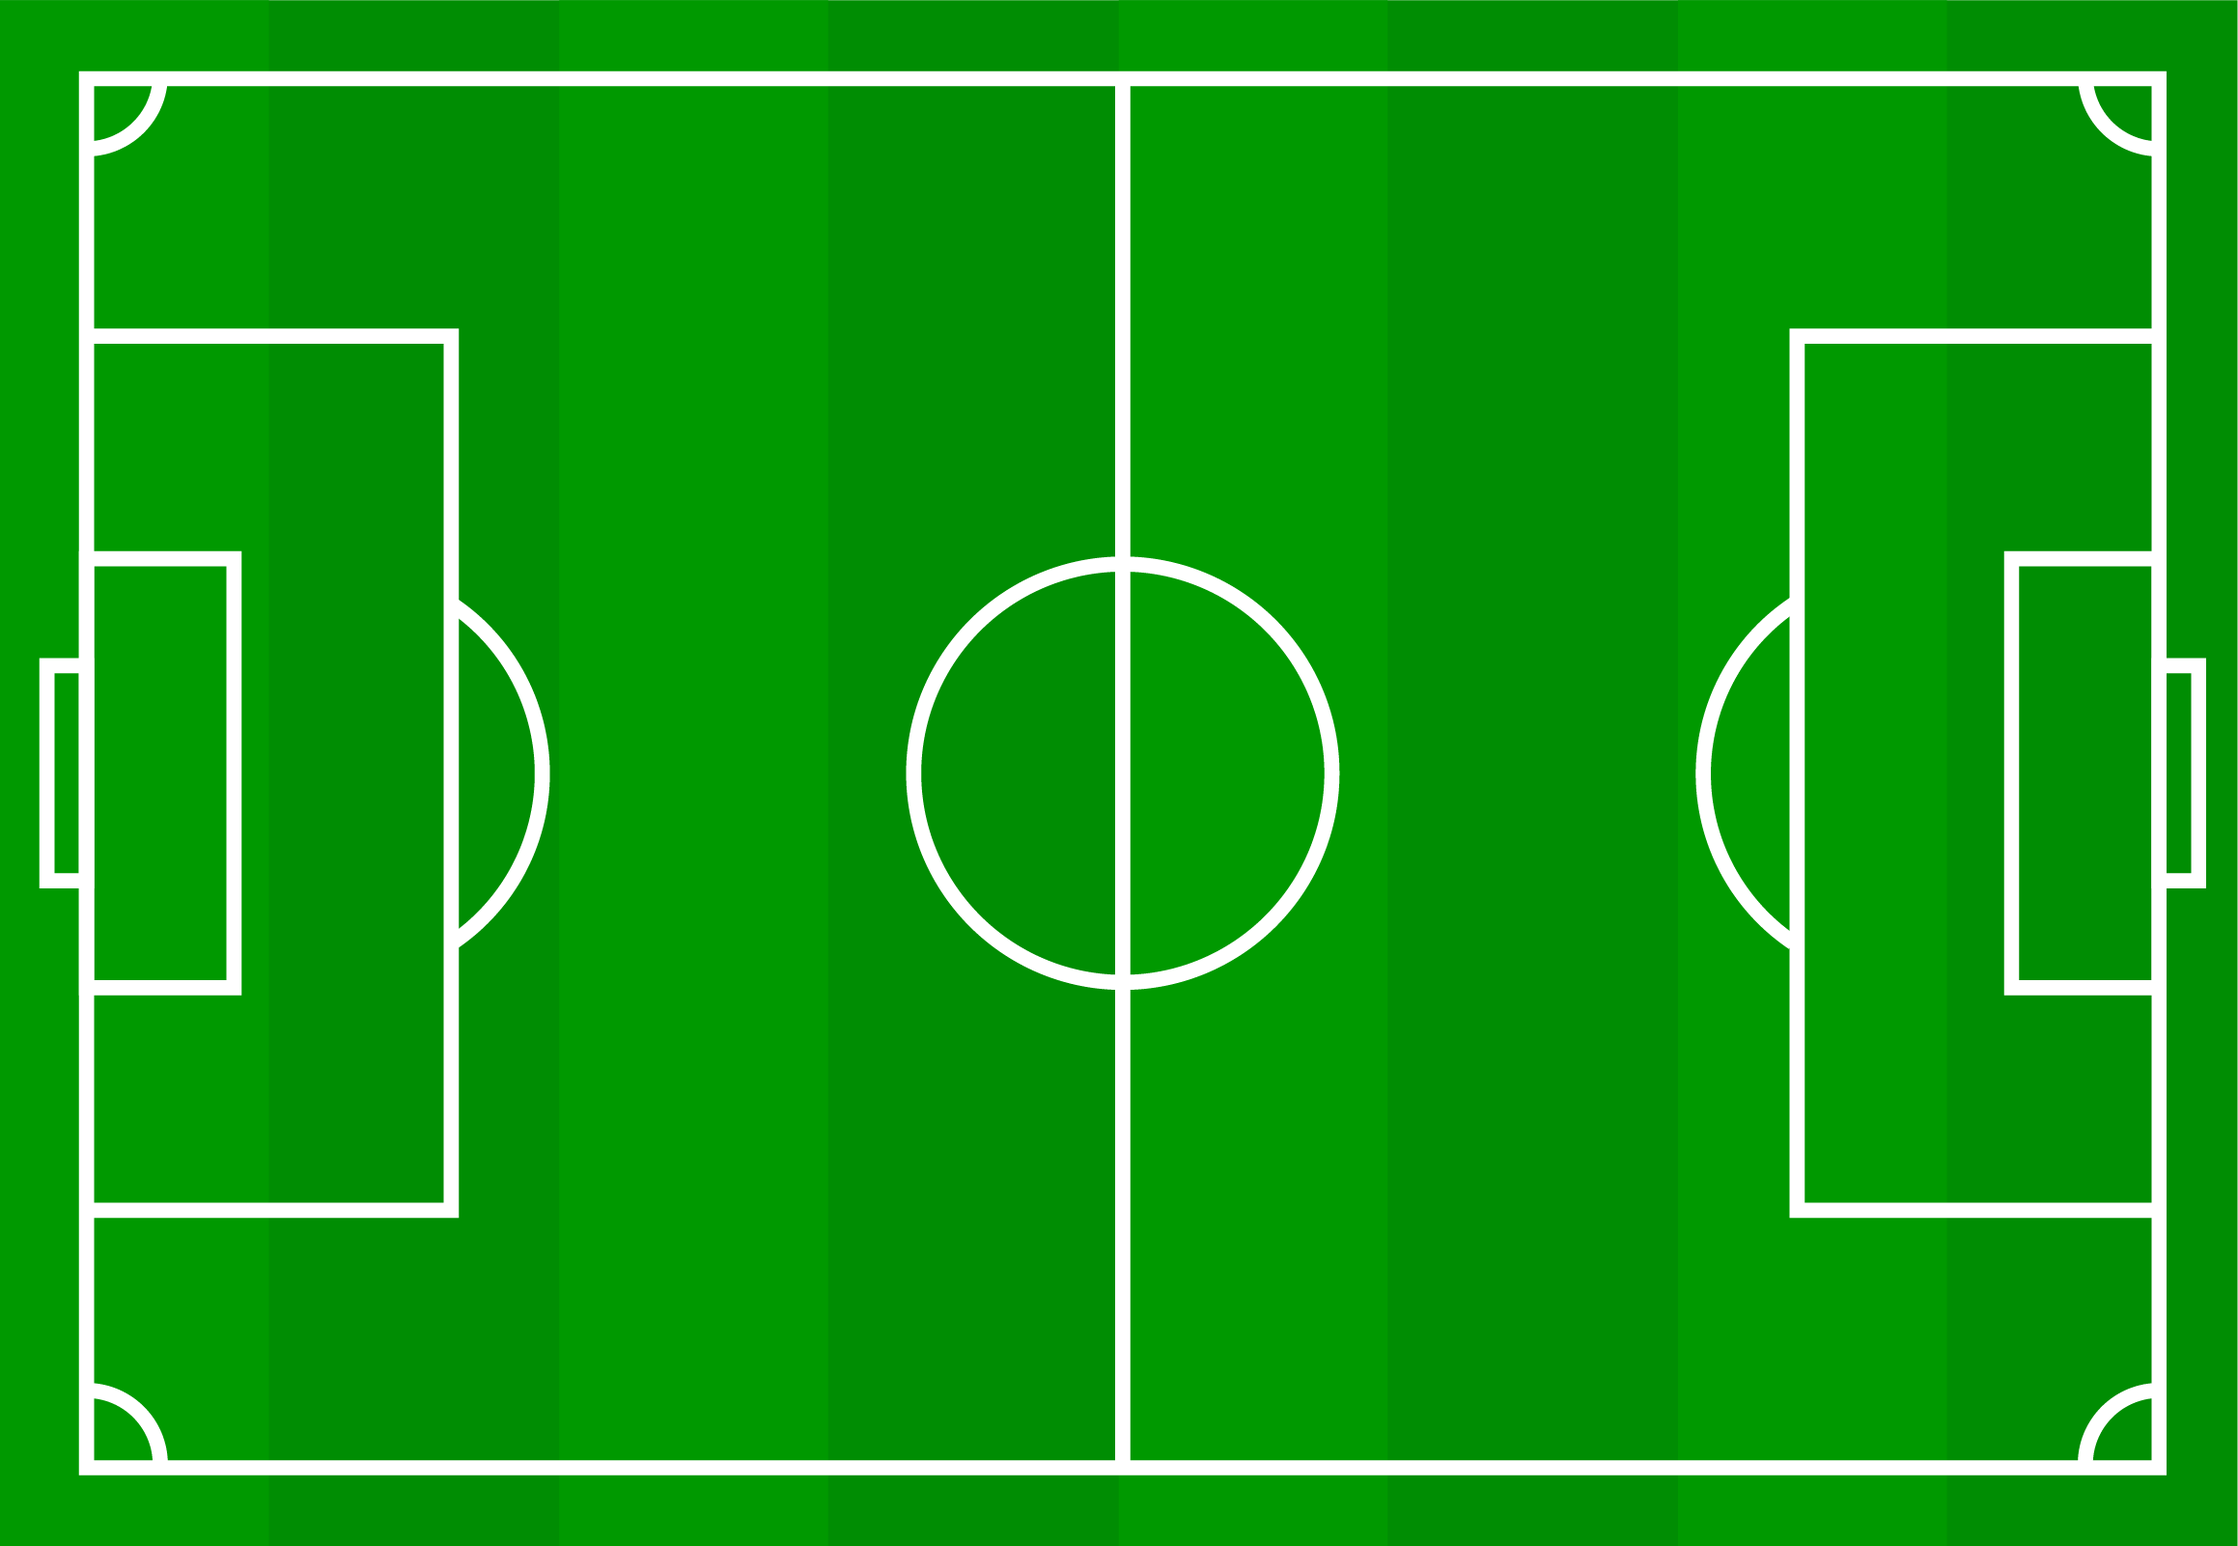
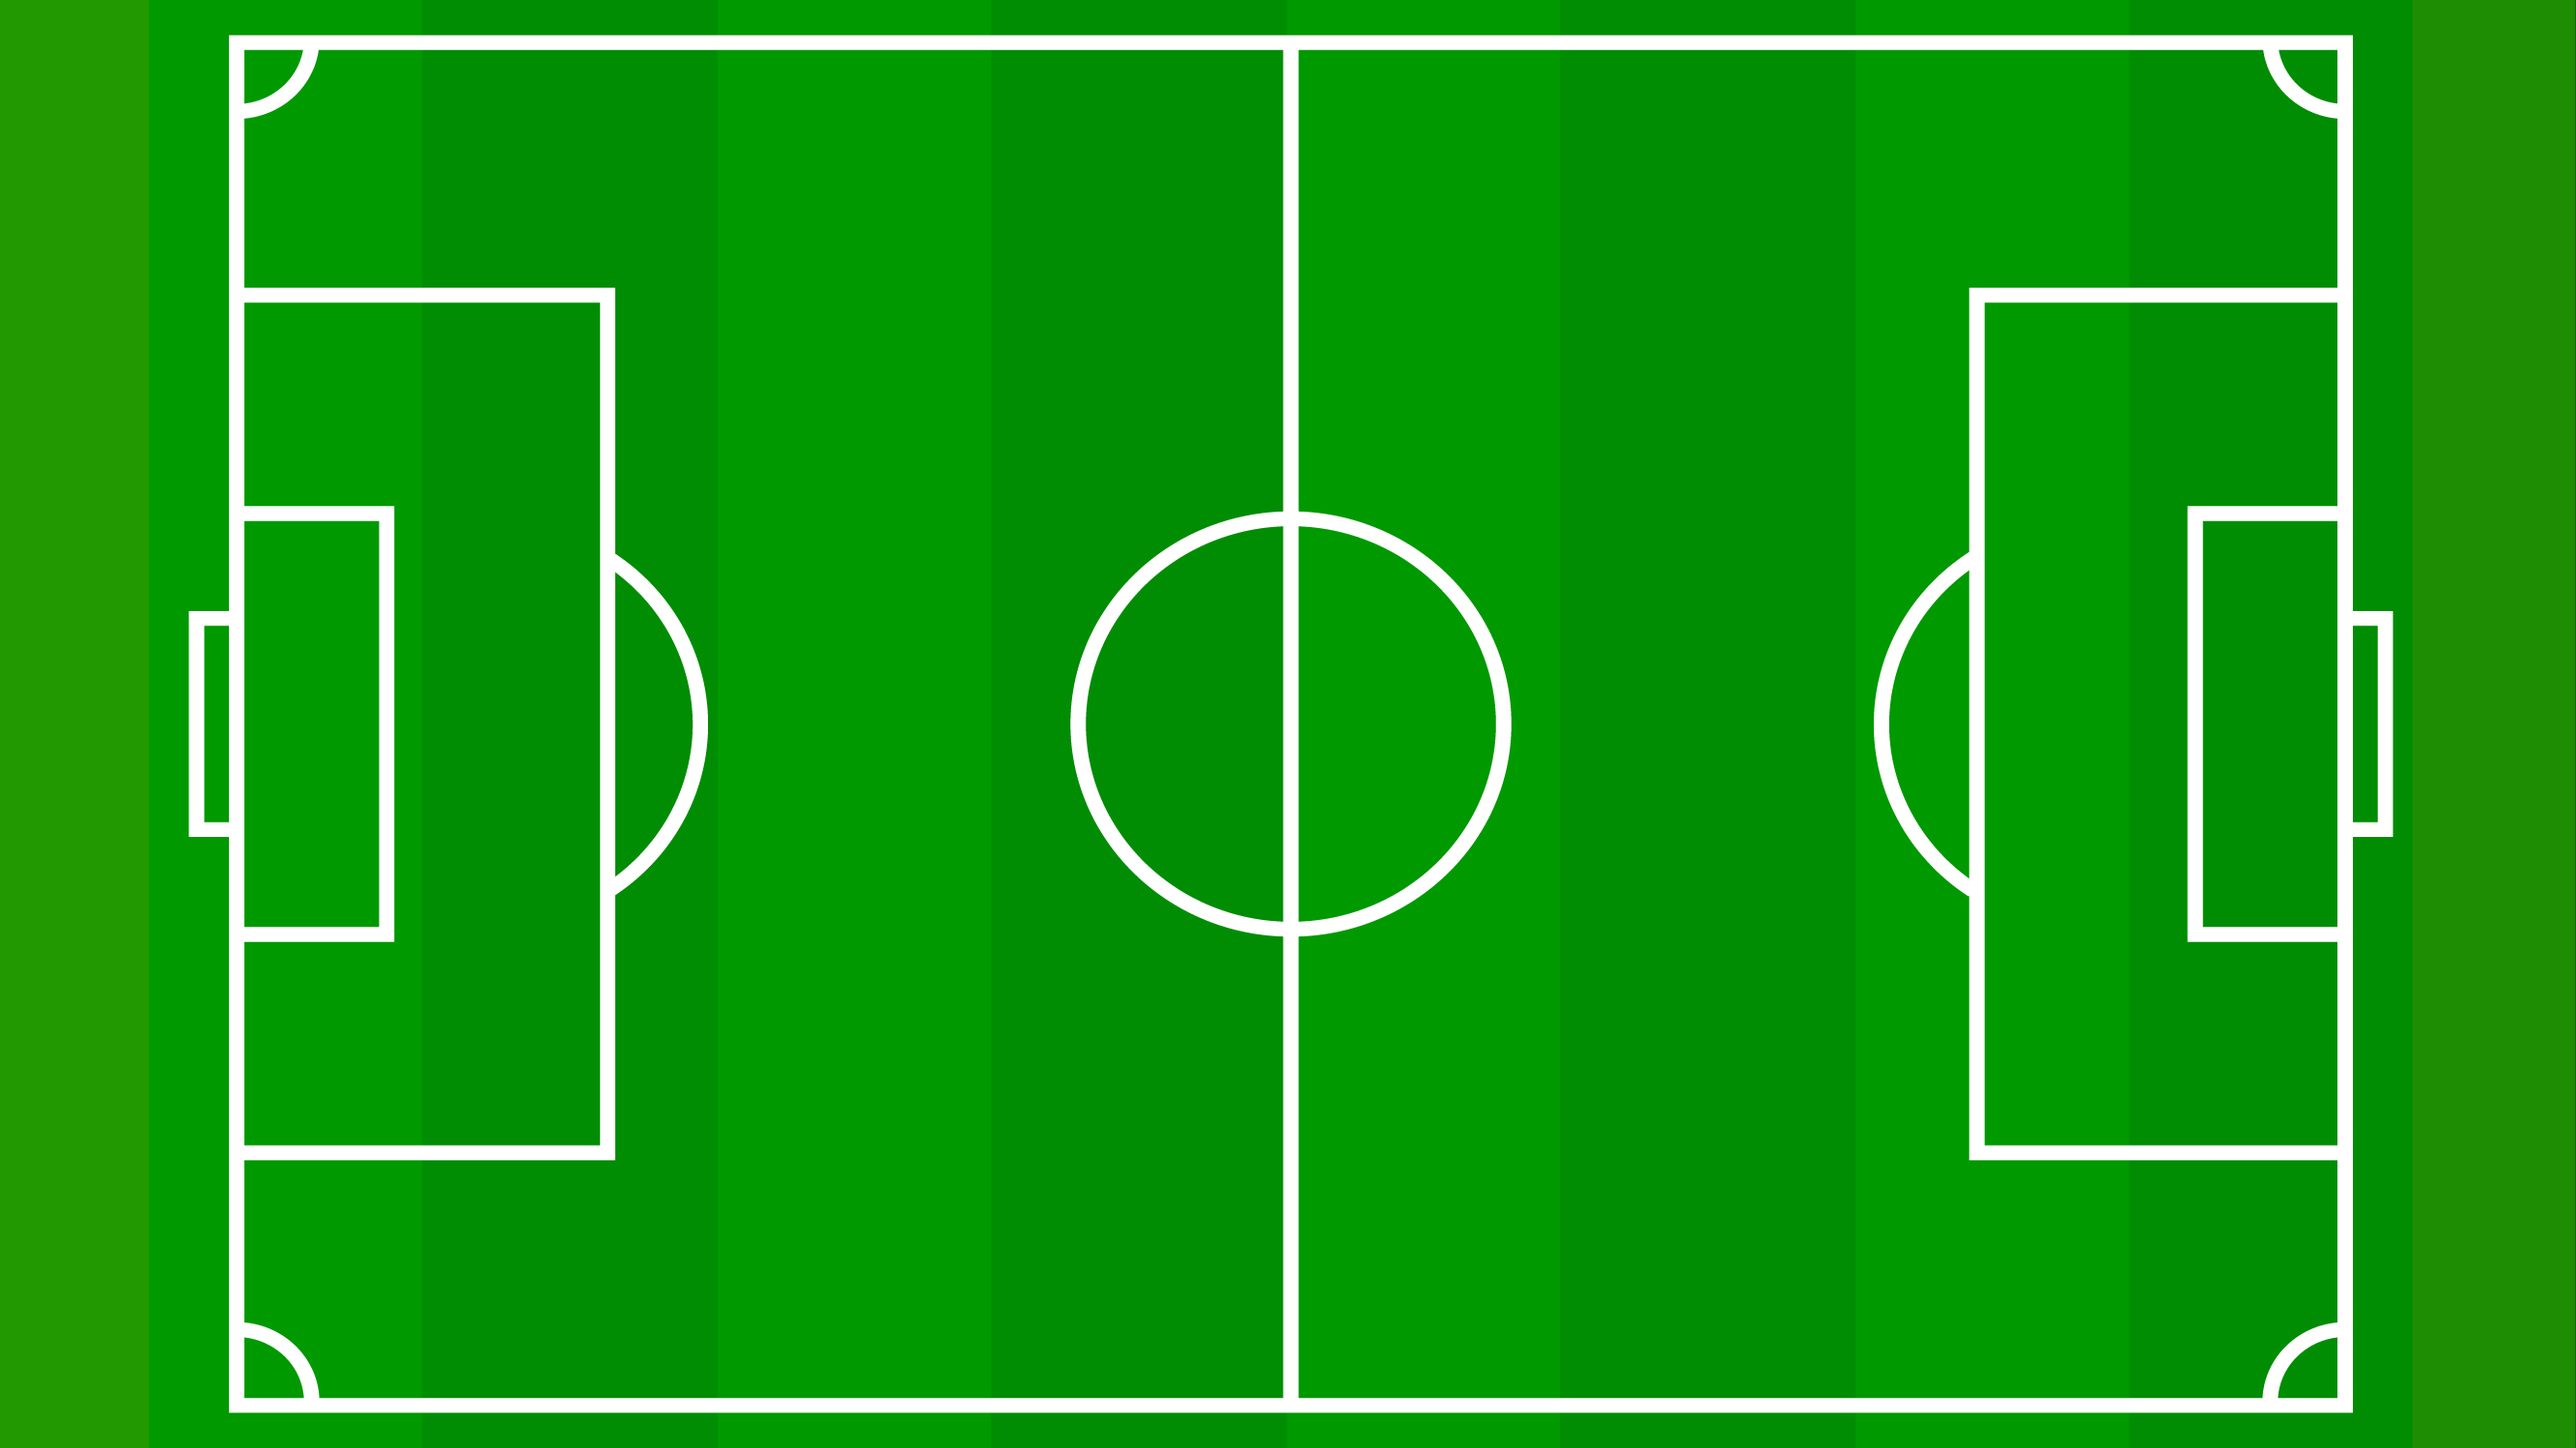
feat: soccer field background on video and option to show player numbers

diff --git a/tp5/animations/videos/default.py b/tp5/animations/videos/default.py
@@ -8,37 +8,73 @@ from pandas import DataFrame
 from lib.video.builder import VideoBuilder
 
 video_name = "default.mp4"
-video_width = 1050
-video_height = 680
+video_width = 1280
+video_height = 720
 
-field_width = 105
+field_width = 1050
 field_height = 680
 
+show_numbers = True
+
+
+def is_number(s: str) -> bool:
+    try:
+        float(s)
+        return True
+    except ValueError:
+        return False
+
+
 def draw_particles(video_builder: VideoBuilder, data: DataFrame):
+    ball = None
     for index, row in data.iterrows():
-        x, y = int((row['x']) * video_width), int((row['y']) * video_height)
+        x, y = int((row['x']) * field_width), int((row['y']) * field_height)
+
+        x += 116
+        y += 20
 
         color = (255, 255, 255)
         particle = row['particle']
         team = row['team']
 
         if particle == 'lunatic':
-            color = (0, 255, 0)
+            color = (0, 255, 255)
         if particle == 'ball':
-            color = (255, 255, 255)
+            ball = (x, y)
+            continue
+
         else:
             if team == 'home':
                 color = (255, 0, 0)
             elif team == 'away':
                 color = (0, 0, 255)
 
-        # Draw current position
-        cv2.circle(video_builder.current_frame, (x, y), 5,
+        cv2.circle(video_builder.current_frame, (x, y), 8,
                    color, -1)
+
+        text = row['particle']
+        if is_number(text):
+            font = cv2.FONT_HERSHEY_SIMPLEX
+            font_scale = 0.5
+            font_thickness = 1
+            text_size, _ = cv2.getTextSize(text, font, font_scale, font_thickness)
+            text_x = x - text_size[0] // 2
+            text_y = y + text_size[1] // 2
+
+            # Draw the text
+            cv2.putText(video_builder.current_frame, text, (text_x, text_y), font, font_scale, (255, 255, 255), font_thickness,
+                        cv2.LINE_AA)
+
+    cv2.circle(video_builder.current_frame, ball, 5,
+               (255, 255, 255), -1)
 
 
 def render():
     video_builder = VideoBuilder("", video_name).set_width(video_width).set_height(video_height)
+
+    # Load the field image and resize it to match the video dimensions
+    field_image = cv2.imread('../assets/field.png')
+    field_image = cv2.resize(field_image, (video_width, video_height))
 
     simulation_file = '../../output/futball-vd3.00-tau0.50'
     data = pd.read_csv(simulation_file)
@@ -48,6 +84,9 @@ def render():
         timestep_data = data[data['frame'] == timestep]
 
         video_builder.create_frame()
+
+        # Draw the field image as the background
+        video_builder.current_frame = field_image.copy()
 
         draw_particles(video_builder, timestep_data)
 

diff --git a/tp5/animations/lib/video/builder.py b/tp5/animations/lib/video/builder.py
@@ -6,8 +6,8 @@ import numpy as np
 from numpy import ndarray
 from dotenv import load_dotenv
 
-DEFAULT_VIDEO_WIDTH = 1050
-DEFAULT_VIDEO_HEIGHT = 680
+DEFAULT_VIDEO_WIDTH = 1280
+DEFAULT_VIDEO_HEIGHT = 720
 DEFAULT_VIDEO_FPS = 60
 
 env_path = os.path.join(os.path.dirname(__file__), '..', '..', '.env')
